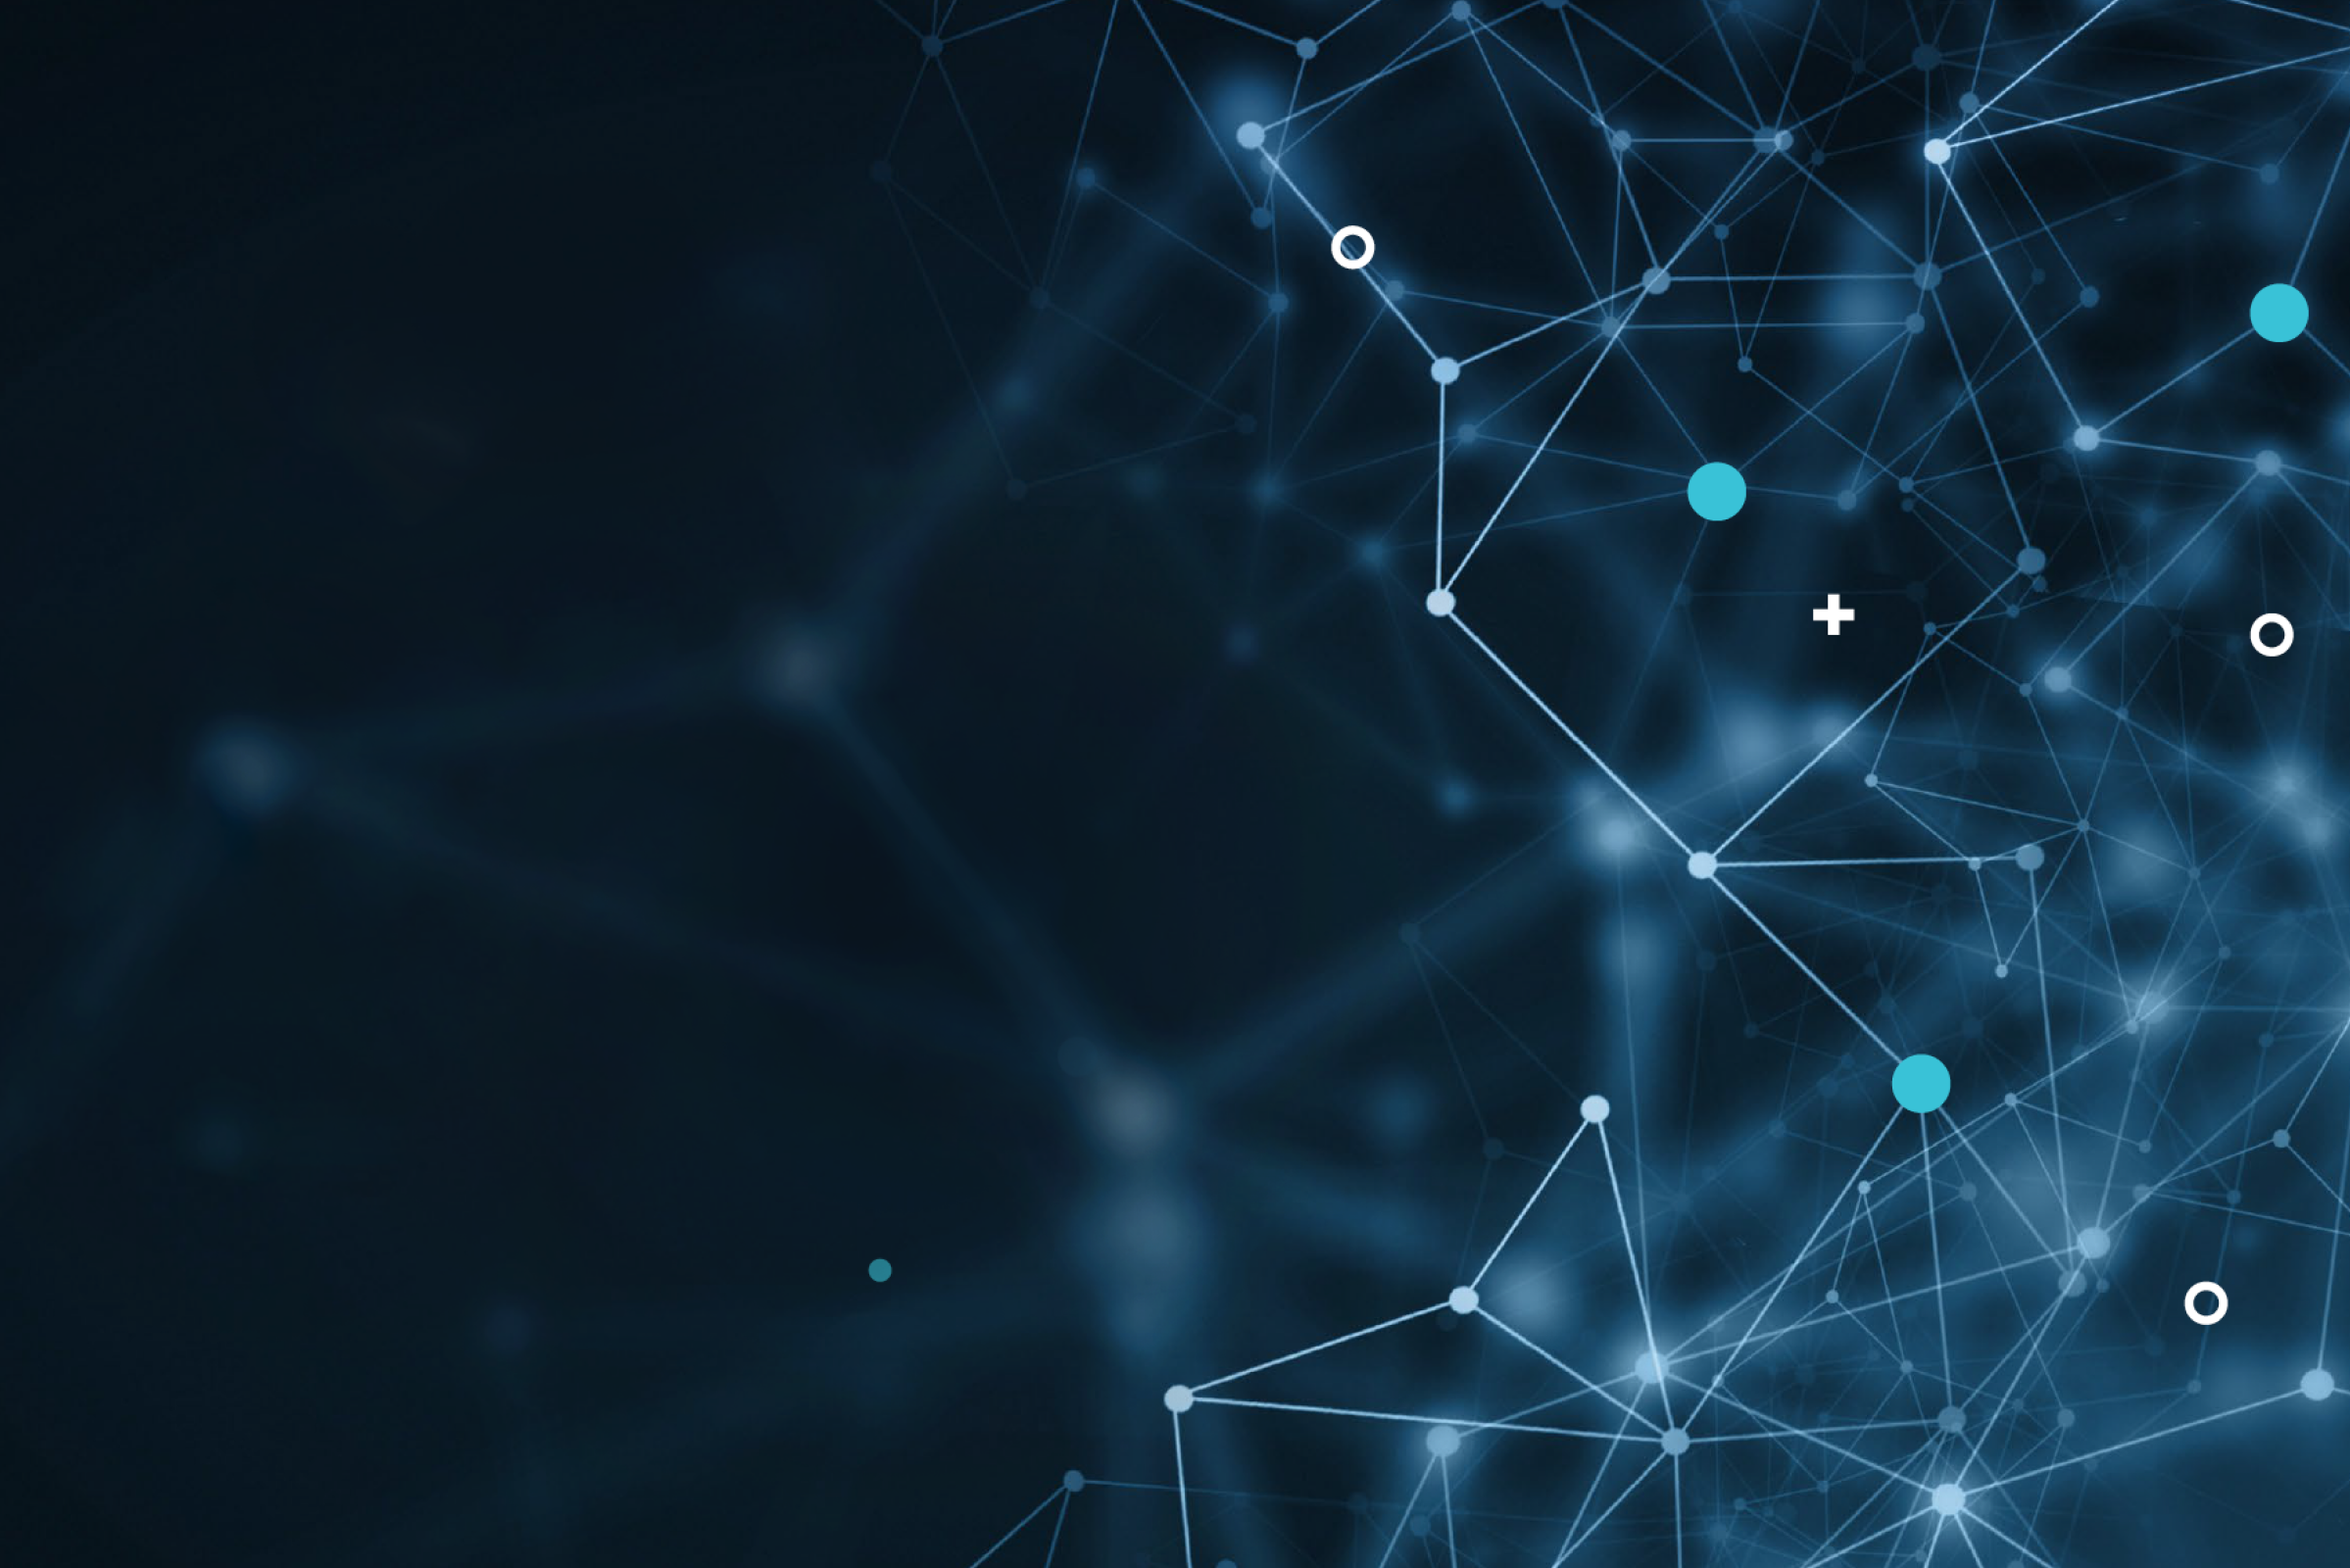
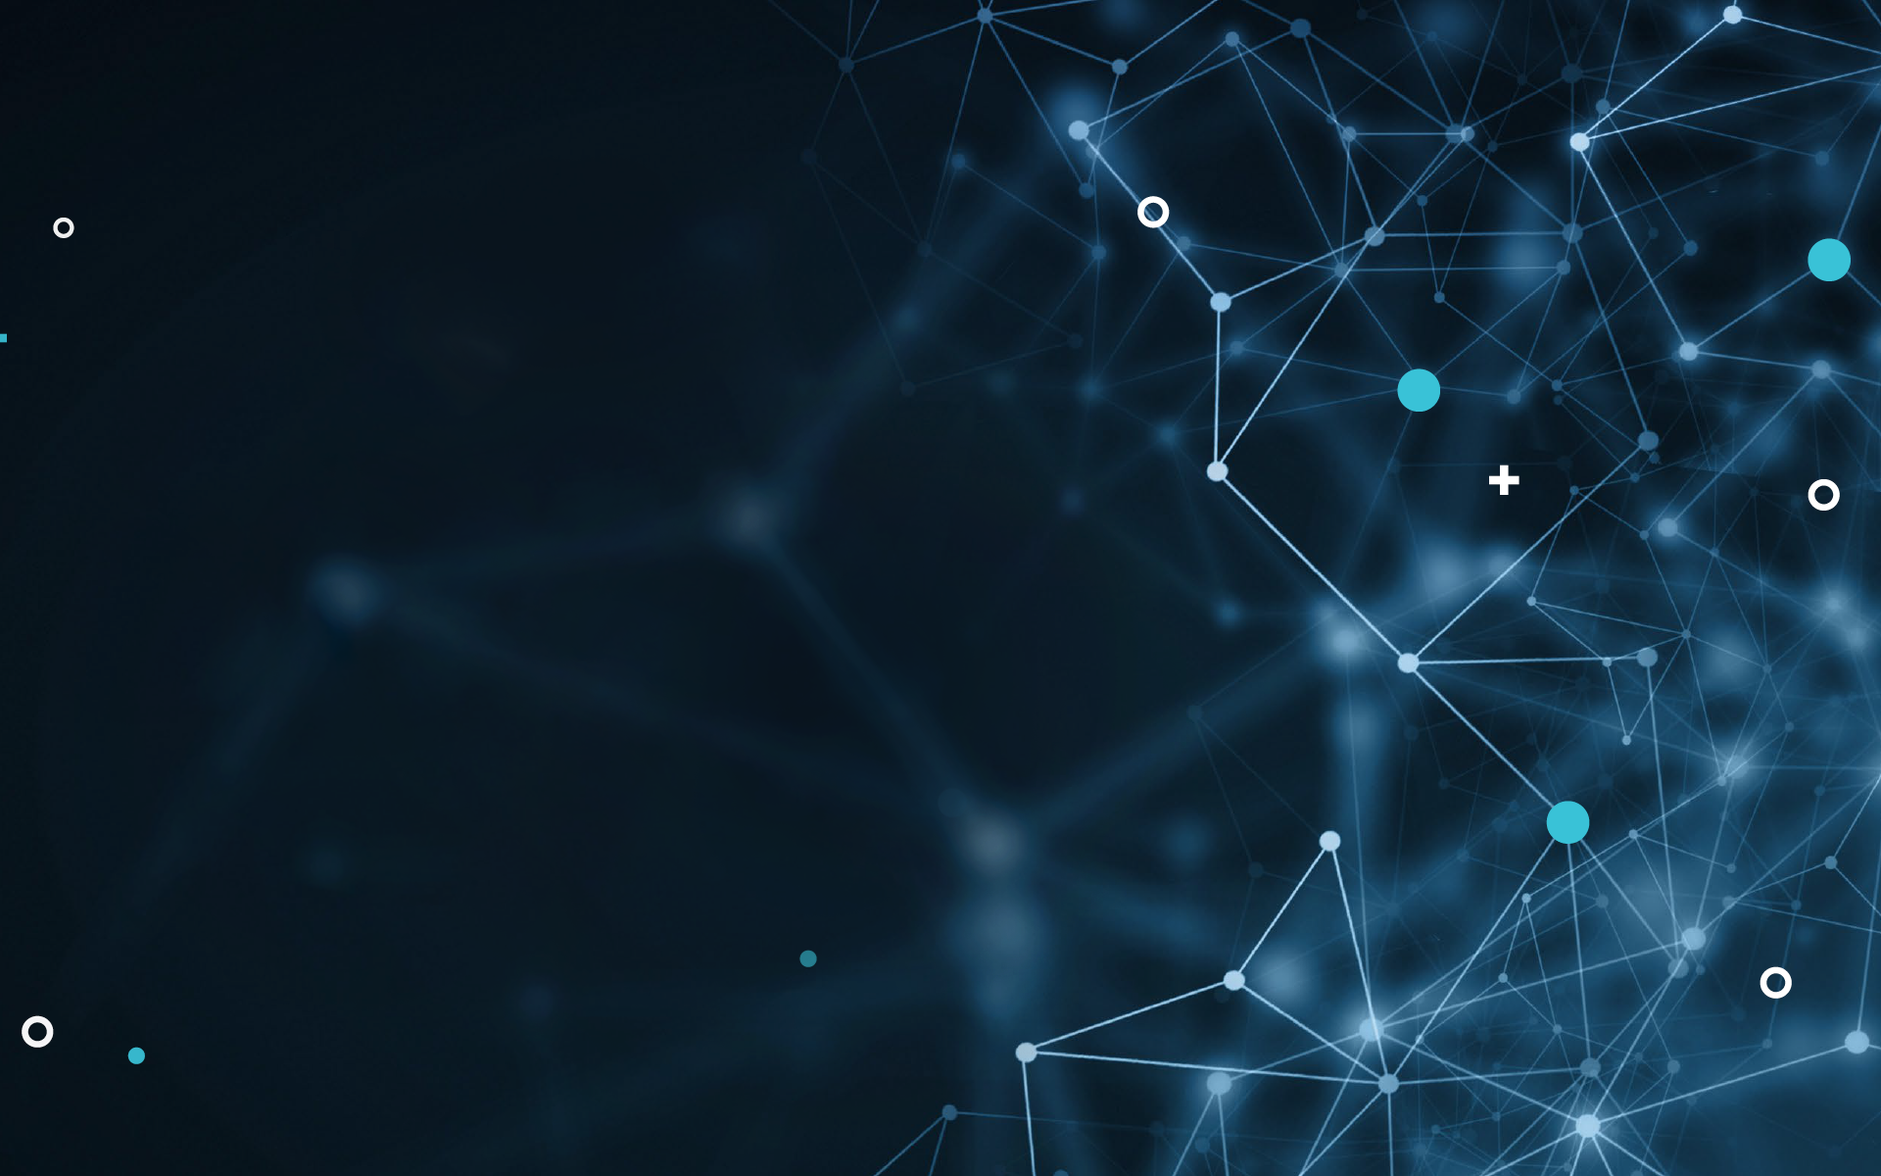
animations added

diff --git a/style.css b/style.css
@@ -9,12 +9,51 @@ header {
     background: url(assets/DesktopBackground.png);
     background-size: cover;
     background-repeat: no-repeat;
+    background-position: right;
     display: flex;
     flex-direction: column;
     align-items: center;
     width: 100%;
     padding: 30px 0px 200px 0px;
+
+    position:relative;
 }
+.dots-and-lines {
+    background: url(assets/Dots_and_lines.png);
+    background-size: cover;
+    background-repeat: no-repeat;
+    background-position: right;
+    position: absolute;
+    top: 0;
+
+    width: 100%;
+    height: 100%;
+
+    
+    animation-duration: 2s;
+    animation-name: fadeInOut;
+    animation-iteration-count: infinite;
+    animation-direction: alternate;
+}
+.little-dots {
+    background: url(assets/Union.png);
+    background-size: cover;
+    background-repeat: no-repeat;
+    background-position: right;
+    position: absolute;
+    transform-origin: right;
+    top: 0;
+
+    width: 100%;
+    height: 100%;
+    
+    animation-duration: 2s;
+    animation-name: moveLeftToRight;
+    animation-iteration-count: infinite;
+    animation-direction: alternate;
+
+}
+
 nav {
     display: flex;
     width: 100%;
@@ -43,9 +82,6 @@ nav ul li {
     color: #FFFFFF;
     text-decoration: none;
 }
-.app-header__nav-menu-button{
-    scale: 0;
-}
 .identifier {
     /* PROJECT */
     width: 50%;
@@ -63,7 +99,7 @@ nav ul li {
     color: #FFFFFF;
     text-decoration: none;
 }   
-header > div {
+.header-elements-container {
     display: flex;
     justify-content: center;
     align-content: center;
@@ -96,11 +132,14 @@ h1 {
 .anime-logo {
     transition: all 1s;
     transition-timing-function: ease-in-out;
+    z-index: 1;
 }
 .anime-logo:hover {
         transform:rotateY(-180deg);
         scale: 1.82;
 }
+
+
 /* Here starts the Main content box */
 article {
     width: 100%;
@@ -177,7 +216,6 @@ article div p:last-child {
 .readmore:hover {
     transform: rotate(12deg)
 }
-
 
 /* Here ends the main box and starts the media box*/
 .media-content {
@@ -311,7 +349,7 @@ address {
     body {
         padding: 0;
         margin: 0 auto;
-        max-width: 1200px;
+        max-width: 768px;
         font-family: 'Source Sans Pro';
     }
     /* here starts the header CSS */
@@ -349,7 +387,7 @@ address {
         flex-grow: 2;
         padding-left: 38px;
     }
-    header > div {
+    .header-elements-container {
         padding: 180px 0px 15px;
     }
     /* Here starts the Main content box */
@@ -400,5 +438,24 @@ address {
         /* © 2021 Project. All rights reserved */
         text-align: center;
         align-self: center;
+    }
+}
+
+@keyframes fadeInOut {
+    from {
+        opacity: 0;
+    }
+    to {
+        opacity: 1;
+    }
+}
+@keyframes moveLeftToRight {
+    from {
+        transform: scale(1);
+    }
+    to {
+        transform: scale(1.07);
+        
+
     }
 }

diff --git a/index.html b/index.html
@@ -3,11 +3,11 @@
 <head>
   <meta charset="UTF-8">
   <meta name="viewport" content="width=device-width, initial-scale=1.0"> <!-- displays site properly based on user's device -->
-  <meta name="description" content="CSS-Selectors-and-Responsive"> <!--task name -->
+  <meta name="description" content="CSS-Animations"> <!--task name -->
   <meta name="author" content="Luis Ignacio">
   <link rel="icon" type="image/png" sizes="32x32" href="./assets/logo.png">
   
-  <title>CSS-Selectors-and-Responsive</title>
+  <title>CSS-Animations</title>
     
 <!--Fonts -->
     <link rel="preconnect" href="https://fonts.googleapis.com"> 
@@ -27,6 +27,8 @@
 
 <body>
 <header>
+    <div class="dots-and-lines"></div>
+    <div class="little-dots"></div>
     <nav>
         <a href="#" target="_self" class="identifier">Project</a>
         <ul class="nav-menu">
@@ -35,13 +37,13 @@
             <li class="stories"><a href="#" target="_self">Stories</a></li>
             <li class="contact"><a href="#" target="_self">Contact</a></li>
         </ul>
-        <div class="nav-menu_button">   
+        <div class="nav-menu_button">
             <div></div> 
             <div></div>
             <div></div> 
         </div> 
     </nav>
-    <div>
+    <div class="header-elements-container">
         <img src="assets/logo.svg" class="logo anime-logo" width="63" height="63"/>
         <h1>
             Your Headline
